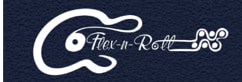
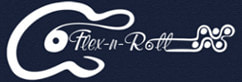
изображения на главной

diff --git a/_layouts/home.html b/_layouts/home.html
@@ -47,10 +47,9 @@ layout: compress
 			<div class="head-client">
 				<div class="head-item">
 					<a href="/opyt/brand-strategy-flex-n-roll/">
-					<picture>
-  						<source srcset="/images/head_flexnroll.webp" type="image/webp">
-						<img src="/images/head_flexnroll.jpg" width="242" height="82" alt="Flex-n-Roll" />
-					</picture>
+					
+						<img src="https://res.cloudinary.com/bartoshevich/image/upload/w_242/q_auto,f_auto/v1532200997/site/head_flexnroll.jpg" width="242" height="82" alt="Flex-n-Roll" />
+					
 				<h3>
 					Flex-n-Roll
 				</h3>
@@ -63,10 +62,9 @@ layout: compress
 
 				<div class="head-item">
 					
-					<picture>
-  						<source srcset="/images/head_hormann2x.webp 2x, /images/head_hormann1x.webp 1x" type="image/webp">
-						<img src="/images/head_hormann1x.jpg"  srcset="/images/head_hormann2x.jpg 2x, /images/head_hormann1x.jpg 1x" width="242" height="82" alt="Hormann" />
-					</picture>
+					
+						<img src="https://res.cloudinary.com/bartoshevich/image/upload/w_242/q_auto,f_auto/v1532200553/site/head_hormann2x.jpg"  width="242" height="82" alt="Hormann" />
+					
 				<h3>
 					Hormann
 				</h3>
@@ -78,10 +76,9 @@ layout: compress
 				</div>
 
 				<div class="head-item">
-					<picture>
-  						<source srcset="/images/head_uvi.webp" type="image/webp">
-						<img src="/images/head_uvi.jpg" width="242" height="82" alt="ЮВИ Электроникс" />
-					</picture>
+					
+						<img src="https://res.cloudinary.com/bartoshevich/image/upload/w_242/q_auto,f_auto/v1532200553/site/head_uvi.jpg" width="242" height="82" alt="ЮВИ Электроникс" />
+					
 				<h3>
 					ЮВИ Электроникс
 				</h3>
@@ -91,10 +88,9 @@ layout: compress
 				</p>
 				</div>
 				<div class="head-item">
-					<picture>
-  						<source srcset="/images/head_giperlink.webp" type="image/webp">
-						<img src="/images/head_giperlink.jpg" width="242" height="82" alt="Giperlink" />
-					</picture>
+					
+						<img src="https://res.cloudinary.com/bartoshevich/image/upload/w_242/q_auto,f_auto/v1532200553/site/head_giperlink.jpg" width="242" height="82" alt="Giperlink" />
+					
 				<h3>
 					Giperlink
 				</h3>
@@ -105,10 +101,9 @@ layout: compress
 				</div>
 				<div class="head-item">
 					<a href="/opyt/3dom-mebel-dlya-semi/">
-					<picture>
-  						<source srcset="/images/head_3Dom.webp" type="image/webp">
-						<img src="/images/head_3Dom.jpg" width="242" height="82" alt="3Dom"  />
-					</picture>
+					
+						<img src="https://res.cloudinary.com/bartoshevich/image/upload/w_242/q_auto,f_auto/v1532200553/site/head_3Dom.jpg" width="242" height="82" alt="3Dom"  />
+					
 					
 				<h3>
 					3Dom
